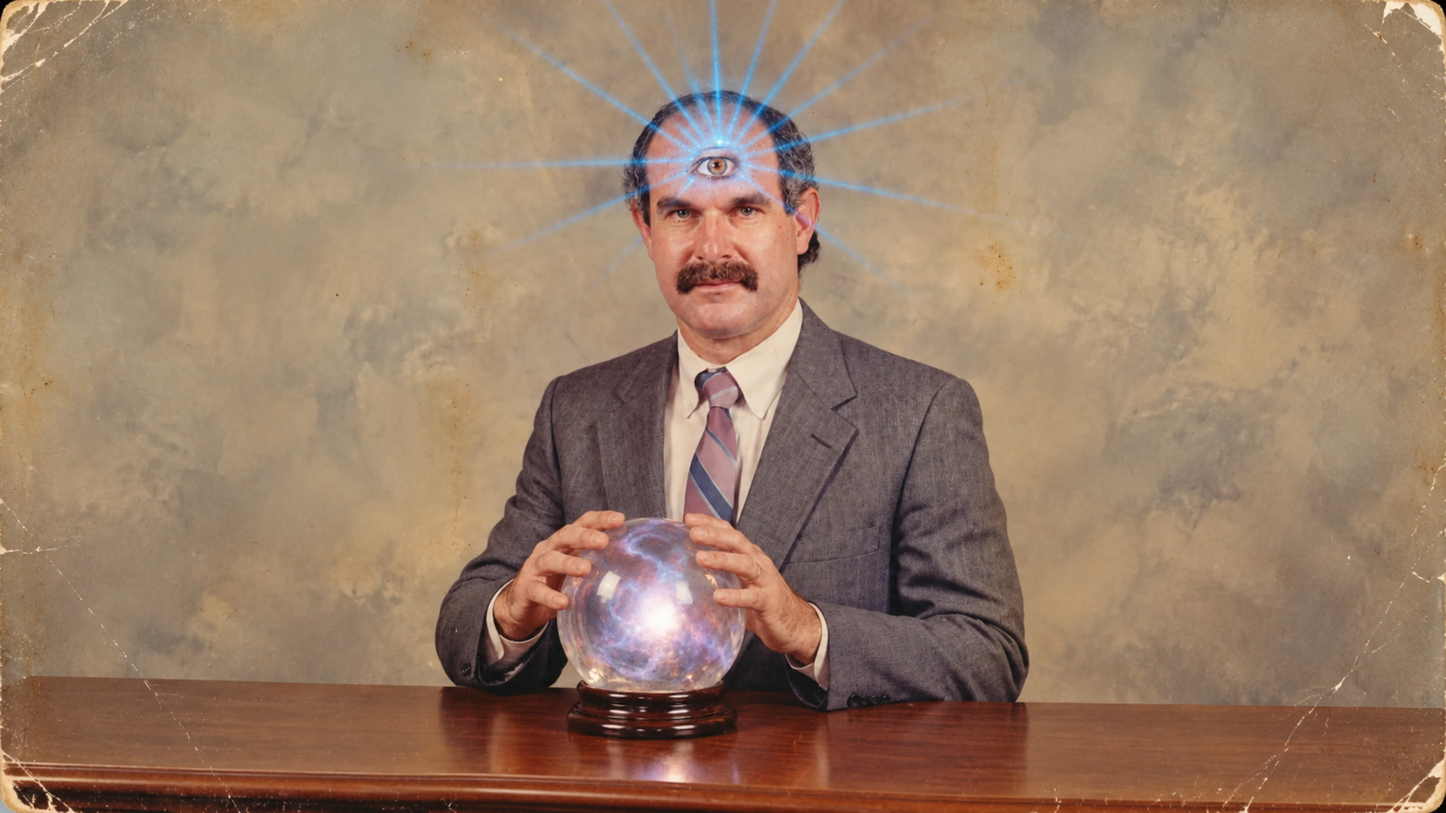
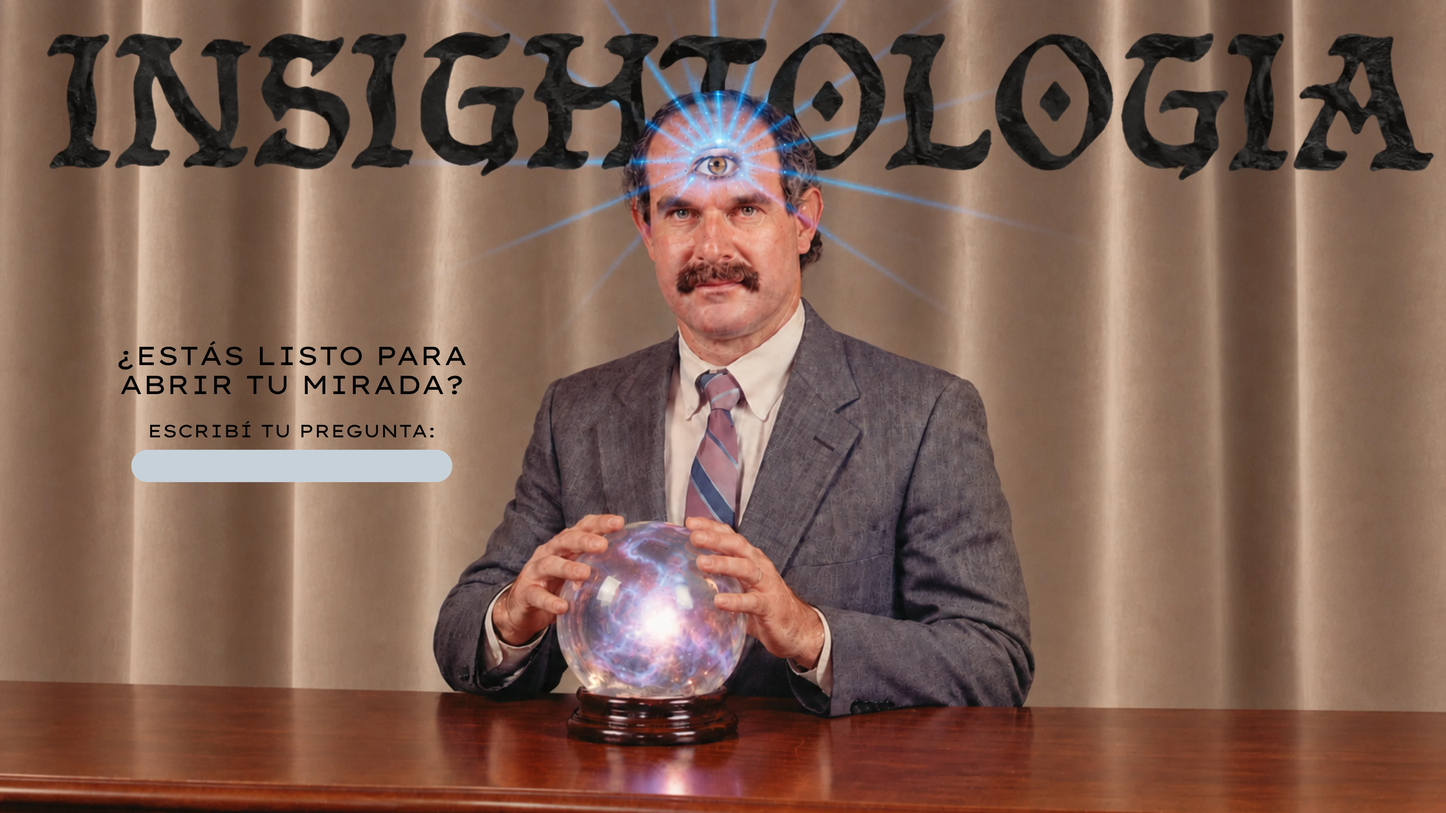
Actualizar fondo de escena con arte de Insightologia, calzar input sobre la pildora y afinar boton de mute

diff --git a/style.css b/style.css
@@ -376,69 +376,34 @@ body.kiosk-mode * {
    ======================================================== */
 #input-panel {
   position: absolute;
-  left: 6.5%;
-  top: 50%;
-  transform: translateY(-50%);
-  width: 28%;
-  max-width: 440px;
+  left: 9.12%;
+  top: 55.35%;
+  width: 22.08%;
+  height: 3.82%;
   z-index: 5;
   display: flex;
-  flex-direction: column;
-  justify-content: center;
+  align-items: center;
   pointer-events: auto;
 }
 
-.oracle-logo {
-  width: 100%;
-  max-width: 340px;
-  height: auto;
-  margin-bottom: 12px;
-  display: block;
-  user-select: none;
-  pointer-events: none;
-  filter: drop-shadow(0 3px 10px rgba(0, 0, 0, 0.35));
-}
-
-.oracle-title {
-  color: var(--color-primary-violet);
-  font-size: clamp(18px, 2.3vw, 36px);
-  font-weight: 800;
-  line-height: 1.12;
-  letter-spacing: -0.02em;
-  text-transform: uppercase;
-  margin-bottom: 12px;
-  text-shadow: 0 1px 2px rgba(255, 255, 255, 0.5);
-}
-
-.oracle-subtitle {
-  color: var(--color-primary-violet);
-  font-size: clamp(11px, 1.25vw, 18px);
-  font-weight: 700;
-  letter-spacing: 0.04em;
-  text-transform: uppercase;
-  margin-bottom: 14px;
-  opacity: 0.95;
-}
-
-/* Chat Input Pill */
+/* Chat Input Pill - Calzado perfecto sobre la píldora dibujada del fondo */
 .pill-form {
   position: relative;
+  width: 100%;
+  height: 100%;
   display: flex;
   align-items: center;
-  background-color: var(--color-pill-bg);
+  background-color: transparent;
   border-radius: 9999px;
-  padding: 6px 10px 6px 18px;
-  box-shadow: 
-    0 4px 18px rgba(0, 0, 0, 0.15),
-    inset 0 1px 1px rgba(255, 255, 255, 0.4);
-  transition: box-shadow 0.25s ease, background-color 0.25s ease;
+  padding: 0 4px 0 16px;
+  box-sizing: border-box;
+  transition: box-shadow 0.25s ease;
 }
 
 .pill-form:focus-within {
-  background-color: #d7dce5;
   box-shadow: 
-    0 6px 24px rgba(43, 30, 92, 0.25),
-    0 0 0 2px rgba(43, 30, 92, 0.4);
+    0 0 0 2px rgba(43, 30, 92, 0.45),
+    0 0 14px rgba(99, 102, 241, 0.35);
 }
 
 .pill-input {
@@ -447,11 +412,12 @@ body.kiosk-mode * {
   border: none;
   outline: none;
   font-family: var(--font-family-base);
-  font-size: clamp(12px, 1.15vw, 17px);
+  font-size: clamp(12px, 1.1vw, 17px);
   font-weight: 600;
-  color: var(--color-pill-text);
-  padding: 6px 4px;
+  color: #1a1333;
+  padding: 0 6px 0 0;
   min-width: 0;
+  height: 100%;
 }
 
 .pill-input::placeholder {
@@ -462,14 +428,15 @@ body.kiosk-mode * {
 .pill-actions {
   display: flex;
   align-items: center;
-  gap: 6px;
-  margin-left: 6px;
+  gap: 4px;
+  height: 100%;
 }
 
 .pill-btn {
   position: relative;
-  width: 36px;
-  height: 36px;
+  height: 80%;
+  aspect-ratio: 1 / 1;
+  width: auto;
   border-radius: 50%;
   border: none;
   display: flex;
@@ -477,7 +444,13 @@ body.kiosk-mode * {
   justify-content: center;
   cursor: pointer;
   outline: none;
+  padding: 0;
   transition: transform 0.15s ease, background-color 0.2s ease, opacity 0.2s ease;
+}
+
+.pill-btn svg {
+  width: 55%;
+  height: 55%;
 }
 
 .pill-btn:active {
@@ -523,13 +496,17 @@ body.kiosk-mode * {
 
 /* Estado de dictado por voz */
 .mic-status {
-  margin-top: 8px;
+  position: absolute;
+  top: 100%;
+  left: 14px;
+  margin-top: 6px;
   font-size: 11px;
-  font-weight: 600;
+  font-weight: 700;
   color: var(--color-primary-violet);
   min-height: 16px;
-  padding-left: 14px;
   opacity: 0;
+  pointer-events: none;
+  text-shadow: 0 1px 2px rgba(255, 255, 255, 0.6);
   transition: opacity 0.2s ease;
 }
 
@@ -613,38 +590,39 @@ body.kiosk-mode * {
    ======================================================== */
 .btn-sound {
   position: fixed;
-  top: 22px;
-  right: 24px;
-  z-index: 100;
+  top: max(20px, calc((100vh - (100vw * 9 / 16)) / 2 + 20px));
+  right: max(24px, calc((100vw - (100vh * 16 / 9)) / 2 + 24px));
+  z-index: 1000;
   width: 44px;
   height: 44px;
   border-radius: 50%;
-  border: 1px solid rgba(190, 175, 255, 0.35);
-  background: rgba(30, 20, 60, 0.65);
+  border: 1px solid rgba(190, 175, 255, 0.45);
+  background: rgba(30, 20, 60, 0.75);
   backdrop-filter: blur(10px);
   color: #F7F4FF;
   display: flex;
   align-items: center;
   justify-content: center;
   cursor: pointer;
-  box-shadow: 0 4px 16px rgba(0, 0, 0, 0.4), 0 0 10px rgba(120, 80, 220, 0.25);
+  box-shadow: 0 4px 16px rgba(0, 0, 0, 0.5), 0 0 12px rgba(120, 80, 220, 0.35);
   transition: transform 0.2s ease, background-color 0.2s ease, border-color 0.2s ease, opacity 0.2s ease;
 }
 
 .btn-sound:hover {
-  background: rgba(50, 35, 95, 0.85);
+  background: rgba(50, 35, 95, 0.9);
   transform: scale(1.08);
-  border-color: rgba(210, 195, 255, 0.6);
+  border-color: rgba(220, 205, 255, 0.7);
+  box-shadow: 0 6px 20px rgba(0, 0, 0, 0.6), 0 0 18px rgba(140, 100, 240, 0.5);
 }
 
 .btn-sound:active {
-  transform: scale(0.95);
+  transform: scale(0.94);
 }
 
 .btn-sound.muted {
   color: rgba(220, 210, 240, 0.45);
-  border-color: rgba(140, 130, 180, 0.25);
-  background: rgba(20, 15, 35, 0.55);
+  border-color: rgba(140, 130, 180, 0.3);
+  background: rgba(20, 15, 35, 0.65);
 }
 
 /* ========================================================

diff --git a/app.js b/app.js
@@ -74,7 +74,6 @@ document.addEventListener('DOMContentLoaded', () => {
   const assetsToPreload = [
     { type: 'image', src: 'assets/escena.webp' },
     { type: 'image', src: 'assets/manos.png' },
-    { type: 'image', src: 'assets/logo.webp' },
     { type: 'image', src: 'assets/fondo-aterciopelado.jpeg' },
     { type: 'video', src: 'assets/gato.webm' }
   ];
@@ -351,8 +350,8 @@ document.addEventListener('DOMContentLoaded', () => {
       
       const tlFly = gsap.timeline();
       tlFly.fromTo(floatingQuestion, 
-        { opacity: 0, scale: 0.8, x: '25%', y: '50%' },
-        { opacity: 1, scale: 1, x: '25%', y: '50%', duration: 0.4, ease: 'back.out(1.5)' }
+        { opacity: 0, scale: 0.8, x: '20%', y: '57%' },
+        { opacity: 1, scale: 1, x: '20%', y: '57%', duration: 0.4, ease: 'back.out(1.5)' }
       )
       .to(floatingQuestion, {
         opacity: 0,

diff --git a/index.html b/index.html
@@ -72,12 +72,8 @@
       <!-- Capa del gato en video WebM con transparencia, autoplay y loop continuo -->
       <video id="layer-cat" class="stage-layer" src="assets/gato.webm" autoplay loop muted playsinline aria-hidden="true" draggable="false"></video>
 
-      <!-- 4. Left side UI: Logo, Title, Subtitle, Chat Pill Input -->
+      <!-- 4. Left side UI: Chat Pill Input positioned over the background artwork -->
       <aside id="input-panel">
-        <img class="oracle-logo" src="assets/logo.webp" alt="Insightología" draggable="false">
-        <h1 class="oracle-title">¿ESTÁS LISTO PARA<br>ABRIR TU MIRADA?</h1>
-        <h2 class="oracle-subtitle">ESCRIBÍ TU PREGUNTA:</h2>
-
         <form id="oracle-form" class="pill-form" onsubmit="return false;">
           <input 
             type="text" 
